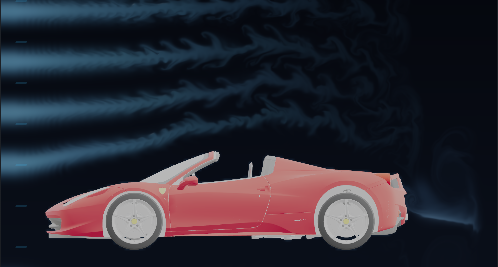
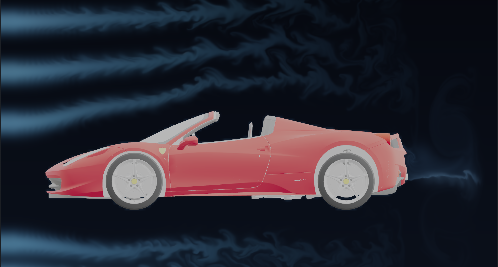
Headline now states the product plainly (put your models in the wind / water) instead of the tagline; plane smoke band sweeps across the airframe (no band floating above the wing); hull dye and foam reworked so the water reads as water (deeper blue under the line, lower tighter spray); HUD chrome st

diff --git a/index.html b/index.html
@@ -57,8 +57,8 @@
     background:rgba(94,234,212,.06);padding:6px 13px;border-radius:100px;margin-bottom:26px}
   .dot{width:5px;height:5px;border-radius:50%;background:var(--teal);box-shadow:0 0 8px var(--teal)}
   h1{font-size:clamp(2.4rem,4.6vw,3.8rem);font-weight:600;line-height:1.08;letter-spacing:-.03em;margin-bottom:22px}
-  h1 em{font-style:normal;background:linear-gradient(100deg,var(--teal),var(--sky) 45%,var(--violet));
-    -webkit-background-clip:text;background-clip:text;color:transparent}
+  h1 em{font-style:normal;color:var(--teal)}
+  h1 em:last-child{color:var(--sky)}
   .sub{font-size:clamp(1rem,1.35vw,1.14rem);color:var(--muted);max-width:540px;margin-bottom:34px;line-height:1.62}
   .sub b{color:var(--text);font-weight:500}
 
@@ -89,20 +89,15 @@
   .hero-visual canvas{position:absolute;inset:0;width:100%;height:100%;display:block}
   #fluid{touch-action:pan-y}
   #overlay{pointer-events:none}
-  .viz-tag{position:absolute;left:14px;top:14px;z-index:3;font-family:var(--mono);font-size:10px;
-    letter-spacing:.14em;text-transform:uppercase;color:var(--muted);background:rgba(7,9,13,.7);
-    border:1px solid var(--line);padding:5px 10px;border-radius:6px;backdrop-filter:blur(6px)}
-  .viz-foot{position:absolute;left:14px;right:14px;bottom:14px;z-index:3;display:flex;
-    justify-content:space-between;align-items:flex-end;gap:4px 14px;flex-wrap:wrap;
-    font-family:var(--mono);font-size:10px;color:var(--dim);letter-spacing:.08em;pointer-events:none}
-  .viz-foot .k{color:var(--muted)}
-  .tabs{position:absolute;right:14px;top:14px;z-index:4;display:flex;gap:4px;
-    background:rgba(7,9,13,.75);border:1px solid var(--line);padding:3px;border-radius:8px;backdrop-filter:blur(6px)}
-  .tab{font-family:var(--mono);font-size:10px;letter-spacing:.12em;text-transform:uppercase;
-    color:var(--dim);background:transparent;border:0;cursor:pointer;padding:5px 11px;border-radius:6px;
+  .viz-hint{position:absolute;left:14px;bottom:12px;z-index:3;font-family:var(--mono);font-size:10px;
+    letter-spacing:.12em;text-transform:uppercase;color:var(--dim);pointer-events:none}
+  .tabs{position:absolute;right:12px;top:12px;z-index:4;display:flex;gap:2px;
+    background:rgba(10,14,20,.82);border:1px solid var(--line-2);padding:3px;border-radius:9px;backdrop-filter:blur(8px)}
+  .tab{font-family:var(--sans);font-size:12px;font-weight:500;letter-spacing:.02em;
+    color:var(--muted);background:transparent;border:0;cursor:pointer;padding:6px 14px;border-radius:6px;
     transition:color .2s,background .2s}
-  .tab:hover{color:var(--muted)}
-  .tab.on{background:rgba(94,234,212,.12);color:var(--teal);box-shadow:inset 0 0 0 1px rgba(94,234,212,.28)}
+  .tab:hover{color:var(--text)}
+  .tab.on{background:rgba(94,234,212,.14);color:var(--teal)}
   .scene{display:none}
   .scene.on{display:block}
 
@@ -113,19 +108,16 @@
   .sec-head p{color:var(--muted);margin-top:14px;font-size:15.5px;line-height:1.65}
 
   .how,.flows,.why{background:var(--bg-2);border-top:1px solid var(--line);border-bottom:1px solid var(--line)}
-  .steps{display:grid;grid-template-columns:repeat(3,1fr);gap:20px}
-  .step{background:var(--panel);border:1px solid var(--line);border-radius:14px;padding:28px 26px 26px;
-    position:relative;overflow:hidden;transition:border-color .25s}
-  .step:hover{border-color:var(--line-2)}
-  .step::before{content:'';position:absolute;top:0;left:0;right:0;height:1px;
-    background:linear-gradient(90deg,transparent,rgba(94,234,212,.5),transparent);opacity:0;transition:opacity .25s}
-  .step:hover::before{opacity:1}
-  .step-n{font-family:var(--mono);font-size:11px;color:var(--teal);letter-spacing:.16em;display:block;margin-bottom:18px}
-  .step h3{font-size:17px;font-weight:600;margin-bottom:10px;letter-spacing:-.01em}
-  .step p{color:var(--muted);font-size:14px;line-height:1.62}
-  .step p code{font-family:var(--mono);font-size:12px;color:var(--sky);
+  .flow{display:grid;grid-template-columns:1fr auto 1fr auto 1fr;gap:16px;align-items:stretch}
+  .flow-cell{background:var(--panel);border:1px solid var(--line);border-radius:14px;padding:28px 26px 26px;
+    display:flex;flex-direction:column;gap:14px;transition:border-color .25s}
+  .flow-cell:hover{border-color:var(--line-2)}
+  .flow-cell svg{display:block}
+  .flow-cell h3{font-size:16px;font-weight:600;letter-spacing:-.01em}
+  .flow-cell p{color:var(--muted);font-size:13.5px;line-height:1.6}
+  .flow-cell p code{font-family:var(--mono);font-size:12px;color:var(--sky);
     background:rgba(56,189,248,.08);padding:2px 6px;border-radius:5px}
-
+  .flow-arrow{display:flex;align-items:center;justify-content:center;color:var(--dim)}
 
   .outs{display:grid;grid-template-columns:repeat(3,1fr);gap:20px}
   .out{border:1px solid var(--line);border-radius:14px;overflow:hidden;background:var(--panel);
@@ -182,9 +174,8 @@
   .proof-in{display:flex;gap:0;flex-wrap:wrap}
   .proof-stat{flex:1;min-width:230px;padding:34px 30px;border-right:1px solid var(--line)}
   .proof-stat:last-child{border-right:none}
-  .proof-stat b{display:block;font-size:clamp(1.7rem,3vw,2.3rem);font-weight:600;letter-spacing:-.02em;
-    background:linear-gradient(100deg,var(--teal),var(--sky) 55%,var(--violet));
-    -webkit-background-clip:text;background-clip:text;color:transparent;margin-bottom:10px}
+  .proof-stat b{display:block;font-size:clamp(1.35rem,2.2vw,1.7rem);font-weight:600;letter-spacing:-.01em;
+    color:var(--text);margin-bottom:10px}
   .proof-stat span{display:block;color:var(--muted);font-size:13.5px;line-height:1.6;max-width:270px}
 
   @media (max-width:1000px){.prices{grid-template-columns:repeat(2,1fr)}}
@@ -192,7 +183,9 @@
     .hero{padding:120px 0 70px}
     .hero-grid{grid-template-columns:1fr;gap:40px}
     .hero-visual{aspect-ratio:1/.8;order:-1}
-    .steps,.outs{grid-template-columns:1fr}
+    .flow{grid-template-columns:1fr}
+    .flow-arrow{transform:rotate(90deg);padding:2px 0}
+    .outs{grid-template-columns:1fr}
     .form-beta{grid-template-columns:1fr 1fr}
     .form-beta button{grid-column:1/-1}
     .proof-stat{border-right:none;border-bottom:1px solid var(--line)}
@@ -232,12 +225,12 @@
   <div class="wrap hero-grid">
     <div>
       <div class="eyebrow"><span class="dot"></span>For car, ship &amp; plane model enthusiasts</div>
-      <h1>Give it <em>wind.</em><br>Give it <em>water.</em></h1>
+      <h1>Put your models in the <em>wind.</em><br>And in the <em>water.</em></h1>
       <p class="sub">
-        Upload the model you already own &mdash; <b>car, ship or plane.</b> STL, OBJ or GLB.
-        We run it through a real Navier&ndash;Stokes solver, the same physics a wind tunnel uses,
-        and send back the film: <b>smoke off the canopy, a bow wave off the stem, spray over the deck.</b>
-        No rigging, no baking &mdash; about a minute.
+        Upload the car, ship or plane model on your shelf &mdash; <b>STL, OBJ or GLB.</b>
+        Wake runs it through a real Navier&ndash;Stokes solver, the same physics a wind tunnel uses,
+        and sends back the film: <b>smoke off the canopy, a bow wave off the stem, spray over the deck.</b>
+        No rigging, no baking.
       </p>
 
       <form class="form" id="form-hero" novalidate>
@@ -250,21 +243,16 @@
     </div>
 
     <div class="hero-visual">
-      <span class="viz-tag" id="viz-tag">Live &middot; ferrari-458.glb &middot; wind tunnel</span>
       <div class="tabs" role="tablist">
-        <button class="tab on" data-scene="car" role="tab">Coupe</button>
-        <button class="tab" data-scene="hull" role="tab">Hull</button>
+        <button class="tab on" data-scene="car" role="tab">Car</button>
+        <button class="tab" data-scene="hull" role="tab">Ship</button>
         <button class="tab" data-scene="plane" role="tab">Plane</button>
       </div>
 
       <canvas id="fluid"></canvas>
       <canvas id="overlay"></canvas>
 
-      <div class="viz-foot">
-        <span id="foot-1"><span class="k">wind</span> 6.6 m/s</span>
-        <span id="foot-2"><span class="k">model</span> ferrari 458</span>
-        <span id="foot-3"><span class="k">solver</span> navier-stokes</span>
-      </div>
+      <span class="viz-hint">live &middot; drag to stir</span>
     </div>
 </header>
 
@@ -291,22 +279,49 @@
       <span class="sec-num">01 &mdash; HOW IT WORKS</span>
       <h2>Three steps. No rigging, no baking.</h2>
     </div>
-    <div class="steps">
-      <div class="step">
-        <span class="step-n">STEP 01</span>
+    <div class="flow">
+
+      <div class="flow-cell">
+        <svg width="30" height="30" viewBox="0 0 24 24" fill="none" stroke="#5eead4" stroke-width="1.5" stroke-linecap="round" stroke-linejoin="round">
+          <path d="M12 2.5 3.5 7v10L12 21.5 20.5 17V7L12 2.5Z"/>
+          <path d="M3.5 7 12 11.5 20.5 7M12 11.5v10"/>
+        </svg>
         <h3>Drop a model</h3>
         <p>Anything with a shape. <code>STL</code> <code>OBJ</code> <code>3MF</code> <code>GLB</code> &mdash; the same file you feed your printer.</p>
       </div>
-      <div class="step">
-        <span class="step-n">STEP 02</span>
+
+      <div class="flow-arrow" aria-hidden="true">
+        <svg width="22" height="14" viewBox="0 0 22 14" fill="none" stroke="currentColor" stroke-width="1.5" stroke-linecap="round" stroke-linejoin="round">
+          <path d="M1 7h18M15 2l5 5-5 5"/>
+        </svg>
+      </div>
+
+      <div class="flow-cell">
+        <svg width="30" height="30" viewBox="0 0 24 24" fill="none" stroke="#38bdf8" stroke-width="1.5" stroke-linecap="round" stroke-linejoin="round">
+          <path d="M3 8h11a3 3 0 1 0-3-3"/>
+          <path d="M3 13h8a2.5 2.5 0 1 1-2.5 2.5"/>
+          <path d="M3 18h6"/>
+        </svg>
         <h3>Pick the flow</h3>
         <p>Air or water. Direction, strength &mdash; and for water: wave height, spray, and the wake.</p>
       </div>
-      <div class="step">
-        <span class="step-n">STEP 03</span>
+
+      <div class="flow-arrow" aria-hidden="true">
+        <svg width="22" height="14" viewBox="0 0 22 14" fill="none" stroke="currentColor" stroke-width="1.5" stroke-linecap="round" stroke-linejoin="round">
+          <path d="M1 7h18M15 2l5 5-5 5"/>
+        </svg>
+      </div>
+
+      <div class="flow-cell">
+        <svg width="30" height="30" viewBox="0 0 24 24" fill="none" stroke="#a78bfa" stroke-width="1.5" stroke-linecap="round" stroke-linejoin="round">
+          <rect x="2.5" y="4.5" width="19" height="15" rx="2.5"/>
+          <path d="M7 4.5v15M17 4.5v15M2.5 9.5h19M2.5 14.5h19"/>
+          <path d="M10.5 9.5v5l4.5-2.5-4.5-2.5Z" fill="#a78bfa" stroke="none"/>
+        </svg>
         <h3>Take the film</h3>
         <p>A looping video of your model, alive. Post it, send it, keep it.</p>
       </div>
+
     </div>
     <div class="runs">
       <span class="runs-k">Runs on anything with a shape</span>
@@ -343,7 +358,7 @@
 
       <div class="out">
         <div class="out-img">
-          <img src="assets/out-motion.png" alt="Seaway frame: bow wave and wake behind a ship model">
+          <img src="assets/out-motion.png" alt="Wind-tunnel frame: smoke sweeps across a scale jet model">
         </div>
         <div class="out-body">
           <h3>The motion</h3>
@@ -519,31 +534,17 @@
   })();
 
   /* ============================================================
-     Coupe / Hull tabs
+     Car / Ship / Plane tabs
      ============================================================ */
   (function () {
     var tabs = document.querySelectorAll('.tab');
     if (!tabs.length) return;
-    var tagEl = document.getElementById('viz-tag');
-    var f1 = document.getElementById('foot-1'),
-        f2 = document.getElementById('foot-2'),
-        f3 = document.getElementById('foot-3');
-    var META = {
-      car:    { tag: 'Live \u00b7 ferrari-458.glb \u00b7 wind tunnel', a: ['wind', '6.6 m/s'], b: ['model', 'ferrari 458'], c: ['solver', 'navier-stokes'] },
-      hull:   { tag: 'Live \u00b7 sail-ship.glb \u00b7 seaway',      a: ['water', '5.2 m/s'], b: ['wake', 'shedding'], c: ['solver', 'navier-stokes'] },
-      plane:  { tag: 'Live \u00b7 regional-jet.glb \u00b7 wind tunnel', a: ['wind', '7.2 m/s'], b: ['model', 'regional jet'], c: ['solver', 'navier-stokes'] }
-    };
     Array.prototype.forEach.call(tabs, function (btn) {
       btn.addEventListener('click', function () {
         var k = btn.getAttribute('data-scene');
         Array.prototype.forEach.call(tabs, function (b) { b.classList.remove('on'); });
         btn.classList.add('on');
         if (hero) hero.setScene(k);
-        var m = META[k];
-        if (tagEl) tagEl.textContent = m.tag;
-        if (f1) f1.innerHTML = '<span class="k">' + m.a[0] + '</span> ' + m.a[1];
-        if (f2) f2.innerHTML = '<span class="k">' + m.b[0] + '</span> ' + m.b[1];
-        if (f3) f3.innerHTML = '<span class="k">' + m.c[0] + '</span> ' + m.c[1];
       });
     });
   })();

diff --git a/wakefield-fluid.js b/wakefield-fluid.js
@@ -309,7 +309,7 @@
     /* dye under the surface is tinted toward sea water, so the currents read
        as water and never as pale smoke; foam and spray at the line stay white */
     '    float dpt = clamp((wl - vUv.y) / 0.30, 0.0, 1.0);',
-    '    c = mix(c, c * vec3(0.50, 0.92, 1.28), dpt);',
+    '    c = mix(c, c * vec3(0.34, 0.80, 1.42), dpt);',
     '    col += c * 1.25;',
     '    col += spec * d * 0.55;',
     /* the ship's reflection: mirrored above the line, wobbling, fading with depth */
@@ -675,7 +675,7 @@
          the canvas), the waterline sits at 1 - waterLine = 0.50, so the rake
          must stay BELOW 0.50 — feeding it above the line reads as smoke. */
       lineCount: 7, lineFrom: 0.100, lineTo: 0.440,
-      dye: [0.42, 0.70, 0.95], dyeVar: 0.26, dyeGain: 0.030, splatRadius: 0.042,
+      dye: [0.28, 0.56, 0.92], dyeVar: 0.26, dyeGain: 0.030, splatRadius: 0.042,
       waterLine: 0.50, heave: 0.0125, pitchDeg: 1.6, waveAmp: 0.0090,
       tag: 'Live · sail-ship.glb · seaway',
       foot: [['water', '5.2 m/s'], ['wake', 'shedding'], ['solver', 'navier-stokes']]
@@ -684,10 +684,10 @@
       mode: 0, sil: 'planeReal', flowDir: 1,  /* wind left -> right, the real jet noses into it */
       inflow: 7.2, gust: 0.34,
       velDiss: 0.19, denDiss: 2.90, curl: 20, pressure: 0.84,
-      /* the main rake sweeps the wing chord and separates over the fuselage;
-         the upper pair runs clean above the fin */
-      lineCount: 4, lineFrom: 0.205, lineTo: 0.325,
-      lines2: { count: 2, from: 0.455, to: 0.495 },
+      /* one rake sweeps the whole airframe: the flow slams into the nose,
+         parts around the fuselage and trails off the wing. No clean band
+         floating above the plane — every wisp touches the aircraft.        */
+      lineCount: 4, lineFrom: 0.150, lineTo: 0.460,
       dye: [0.34, 0.70, 1.00], dyeVar: 0.30, dyeGain: 0.036, splatRadius: 0.050,
       tag: 'Live · regional-jet.glb · wind tunnel',
       foot: [['wind', '7.2 m/s'], ['model', 'regional jet'], ['solver', 'navier-stokes']]
@@ -1004,14 +1004,15 @@
         [foam[0] * g * 2.0, foam[1] * g * 2.0, foam[2] * g * 2.0], 0.028);
       splat(p.bow - 0.016, wl - 0.010, -70 * pulse, -6 * pulse,
         [foam[0] * g * 1.4, foam[1] * g * 1.4, foam[2] * g * 1.4], 0.022);
-      /* spray: a few droplets off the stem, thrown up and fanned back */
-      for (var i = 0; i < 3; i++) {
-        splat(p.bow - 0.006 + (Math.random() - 0.5) * 0.012,
-              wl + 0.004 + Math.random() * 0.012,
+      /* spray: two droplets off the stem, low and tight — anything higher
+         or wider turns into pale smoke columns above the line            */
+      for (var i = 0; i < 2; i++) {
+        splat(p.bow - 0.006 + (Math.random() - 0.5) * 0.010,
+              wl + 0.002 + Math.random() * 0.006,
               -60 * pulse - Math.random() * 50,
-              26 + Math.random() * 52,
-              [foam[0] * g * 2.6, foam[1] * g * 2.6, foam[2] * g * 2.6],
-              0.009 + Math.random() * 0.008);
+              10 + Math.random() * 22,
+              [foam[0] * g * 2.2, foam[1] * g * 2.2, foam[2] * g * 2.2],
+              0.006 + Math.random() * 0.005);
       }
       /* under-bow current: the sea is deflected DOWN along the hull */
       splat(p.bow - 0.030, wl - 0.034, -80 * pulse, -34 * pulse,
@@ -1311,20 +1312,8 @@
                              bwX + W * 0.082, bwY + H * 0.005);
         ctx.stroke();
         ctx.restore();
-      } else {
-        /* inlet rake on the left */
-        ctx.save();
-        ctx.strokeStyle = 'rgba(56,189,248,.35)';
-        ctx.lineWidth = Math.max(1, W * 0.0016);
-        for (var i = 0; i <= 10; i++) {
-          var yy = H * (0.06 + i * 0.088);
-          ctx.beginPath();
-          ctx.moveTo(W * 0.030, yy);
-          ctx.lineTo(W * 0.052, yy);
-          ctx.stroke();
-        }
-        ctx.restore();
       }
+      /* air scenes carry no HUD chrome: the flow and the model are the picture */
     }
 
     /* -------------------------------- loop -------------------------------- */
